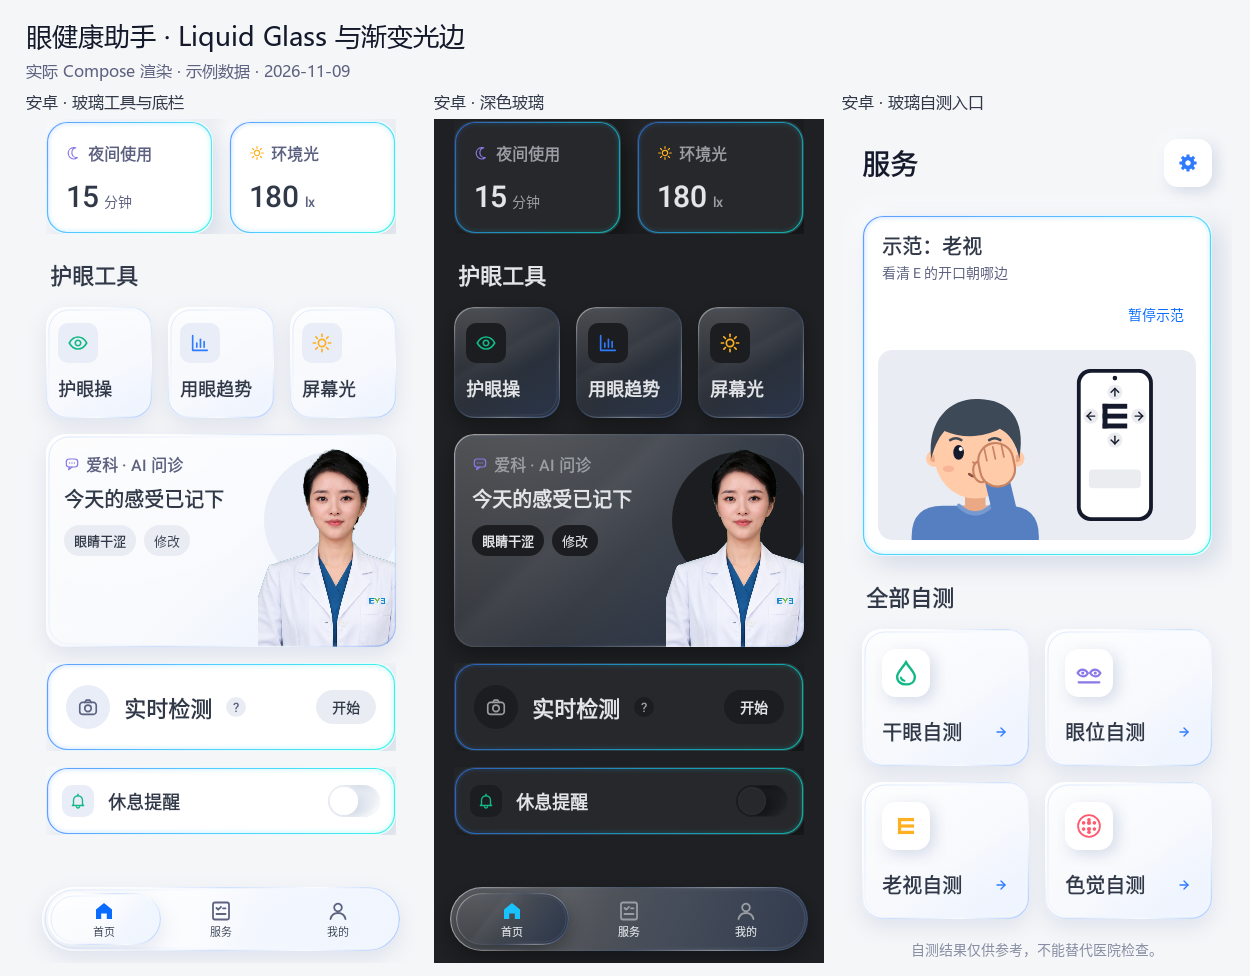
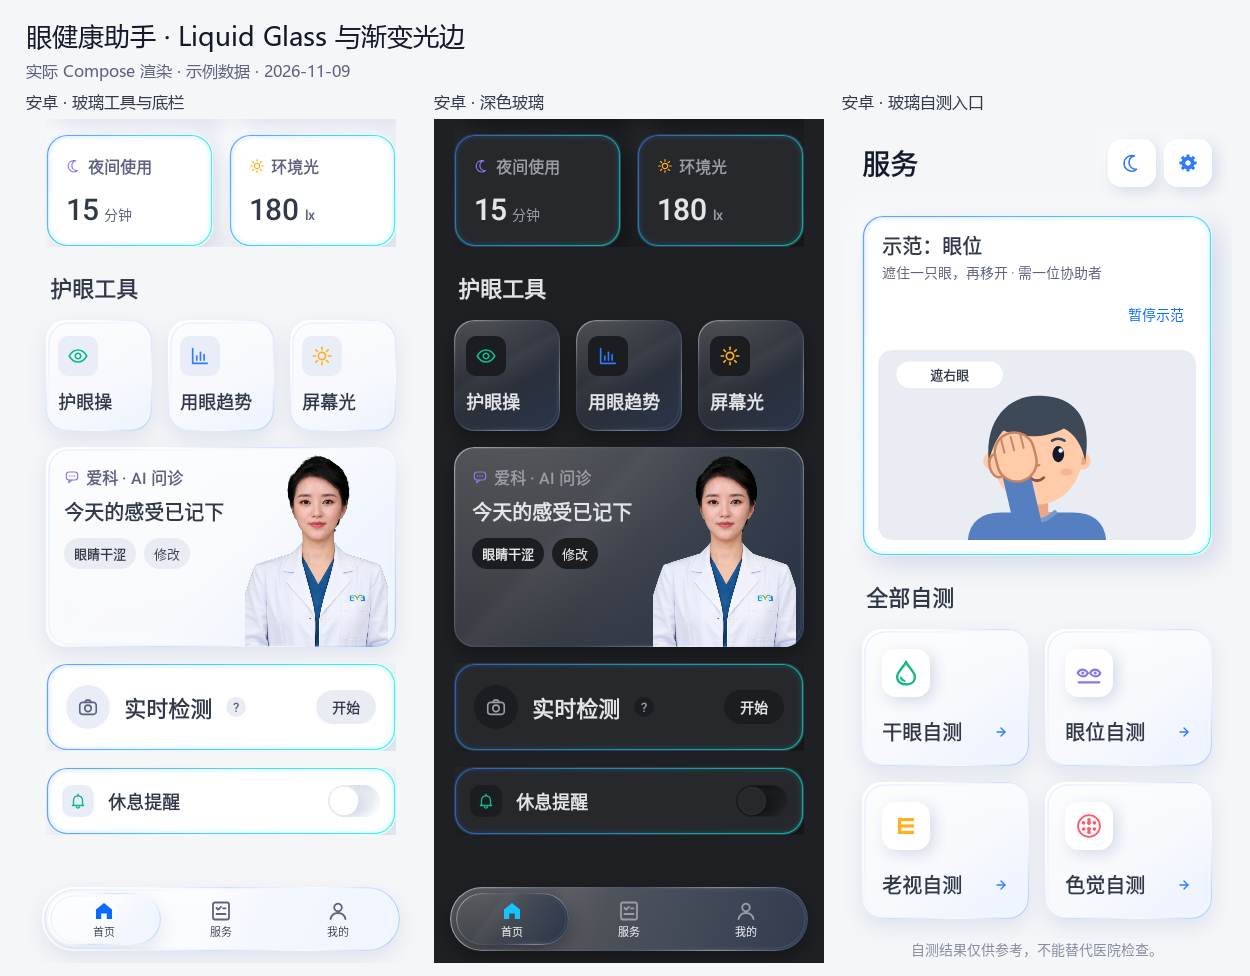
调整爱科半身形象并统一主页设置与日夜切换入口

diff --git a/feature/home/src/main/java/com/zkyjss/eyeproject/feature/home/HomeScreen.kt b/feature/home/src/main/java/com/zkyjss/eyeproject/feature/home/HomeScreen.kt
@@ -55,6 +55,7 @@ import com.zkyjss.eyeproject.core.designsystem.R
 import com.zkyjss.eyeproject.core.designsystem.theme.EyeColors
 import com.zkyjss.eyeproject.core.designsystem.theme.eyeSoftSurface
 import com.zkyjss.eyeproject.core.designsystem.theme.EyeMotion
+import com.zkyjss.eyeproject.core.designsystem.theme.EyeControlSizes
 import com.zkyjss.eyeproject.core.designsystem.theme.EyeShapes
 import com.zkyjss.eyeproject.core.designsystem.theme.EyeSpacing
 import com.zkyjss.eyeproject.core.designsystem.theme.LocalEyeColors
@@ -149,7 +150,7 @@ internal fun HomeContent(
             .padding(top = getTopStatusBarPadding()).screenHorizontalPaddingLarge(),
         verticalArrangement = Arrangement.spacedBy(EyeSpacing.cardGap),
     ) {
-        EyePageHeader("今日", null,
+        EyePageHeader("今日", navigation.onOpenSettings,
             subtitle = remember { LocalDate.now().format(DateTimeFormatter.ofPattern("M月d日 EEEE", Locale.CHINA)) })
         EyeCareHero(report, onOpenAccount = navigation.onOpenAccount)
         TodayData(state, actions, Modifier.bringIntoViewRequester(basic))
@@ -426,11 +427,11 @@ private fun EyechoCard(report: EyeCareReport?, onOpenChat: () -> Unit, onCheckIn
     val checked = report?.checkedInToday == true
     val symptoms = report?.todaySymptoms.orEmpty()
     var editing by rememberSaveable { mutableStateOf(false) }
-    Box(Modifier.fillMaxWidth().heightIn(min = 180.dp).pressableCard(EyeShapes.hero, onOpenChat)) {
-        Box(Modifier.align(Alignment.TopEnd).offset(x = 4.dp, y = 18.dp).size(136.dp).clip(CircleShape).background(colors.violetSoft))
+    Box(Modifier.fillMaxWidth().heightIn(min = EyeControlSizes.homePortraitHeight).pressableCard(EyeShapes.hero, onOpenChat)) {
         Image(painterResource(R.drawable.eyecho_half), contentDescription = "爱科", contentScale = ContentScale.Fit,
-            modifier = Modifier.align(Alignment.TopEnd).offset(x = 14.dp, y = 6.dp).size(width = 152.dp, height = 213.dp))
-        Column(Modifier.padding(18.dp).fillMaxWidth(0.62f), verticalArrangement = Arrangement.spacedBy(8.dp)) {
+            modifier = Modifier.align(Alignment.BottomEnd).padding(end = EyeControlSizes.homePortraitInset)
+                .size(width = EyeControlSizes.homePortraitWidth, height = EyeControlSizes.homePortraitHeight))
+        Column(Modifier.padding(18.dp).fillMaxWidth(0.56f), verticalArrangement = Arrangement.spacedBy(8.dp)) {
             EyeCategoryLabel(EYECHO_CARD_LABEL, EyeGlyph.CHAT, colors.violet)
             EyeText(if (checked) "今天的感受已记下" else "今天眼睛感觉怎么样？", style = typography.subtitle, color = colors.textPrimary)
             FlowRow(Modifier.padding(top = 4.dp), horizontalArrangement = Arrangement.spacedBy(8.dp), verticalArrangement = Arrangement.spacedBy(8.dp)) {

diff --git a/feature/home/src/test/java/com/zkyjss/eyeproject/feature/home/HomeVisualTest.kt b/feature/home/src/test/java/com/zkyjss/eyeproject/feature/home/HomeVisualTest.kt
@@ -101,9 +101,8 @@ class HomeVisualTest {
         compose.onNodeWithContentDescription("今日眼健康指数", substring = true).assertExists()
         compose.onNodeWithText("做 1 分钟护眼操").assertDoesNotExist()
         compose.onNodeWithText("护眼操").assertExists()
-        // 右上角只有账户头像，白天 / 夜晚切换移到「我的」
-        compose.onNodeWithContentDescription("切换到夜晚模式").assertDoesNotExist()
-        compose.onNodeWithContentDescription("系统设置").assertDoesNotExist()
+        // 系统设置移至主页顶栏，账户入口仍在仪表头像。
+        compose.onNodeWithContentDescription("系统设置").assertIsDisplayed()
         capture("01-首页-首屏", advance = false)
         compose.mainClock.autoAdvance = true
         compose.onNodeWithText("休息提醒").performScrollTo().performClick()
@@ -157,7 +156,11 @@ class HomeVisualTest {
         var report by mutableStateOf(initial.report!!.copy(score = 21, level = "LOW", label = "轻松"))
         compose.setContent {
             EyeProjectTheme(darkTheme = dark) {
-                HomeContent(initial.copy(report = report), HomeNavigation(onOpenAccount = { opened = true }), HomeActions())
+                androidx.compose.runtime.CompositionLocalProvider(
+                    com.zkyjss.eyeproject.core.ui.component.LocalEyeThemeToggle provides
+                        com.zkyjss.eyeproject.core.ui.component.EyeThemeToggle(dark) { dark = !dark }) {
+                    HomeContent(initial.copy(report = report), HomeNavigation(onOpenAccount = { opened = true }), HomeActions())
+                }
             }
         }
         compose.onNodeWithText("79").assertIsDisplayed()
@@ -393,6 +396,9 @@ class HomeVisualTest {
         )
         compose.mainClock.autoAdvance = false
         compose.setContent {
+            androidx.compose.runtime.CompositionLocalProvider(
+                com.zkyjss.eyeproject.core.ui.component.LocalEyeThemeToggle provides
+                    com.zkyjss.eyeproject.core.ui.component.EyeThemeToggle(dark) { dark = !dark }) {
             EyeProjectTheme(darkTheme = dark) {
                 val themeIsDark = LocalEyeColors.current.isDark
                 androidx.compose.runtime.SideEffect { renderedDark = themeIsDark }
@@ -404,6 +410,7 @@ class HomeVisualTest {
                     }
                     EyeNavigationDock(items, selected, { selected = it }, Modifier.fillMaxWidth().padding(horizontal = 16.dp, vertical = 12.dp))
                 }
+            }
             }
         }
         compose.mainClock.advanceTimeBy(1_500)

diff --git a/iosApp/Sources/EyeHome.swift b/iosApp/Sources/EyeHome.swift
@@ -32,7 +32,7 @@ struct HomePage: View {
         let report = store.report
         ScrollViewReader { proxy in
             PageScroll {
-                PageHeader(title: "今日", subtitle: today)
+                PageHeader(title: "今日", subtitle: today, openSettings: { navigate(.settings) })
                 HeroCard(report: report, openAccount: { navigate(.account) })
                 TodayData(report: report)
                 SectionTitle(text: "护眼工具")
@@ -160,13 +160,14 @@ private struct EyechoCard: View {
         let quick = Array(EyeCareBridge.shared.symptoms.prefix(2)) + [noDiscomfort]
         ZStack(alignment: .topLeading) {
             Button { EyeHaptics.tap(); openChat() } label: {
-                ZStack(alignment: .topTrailing) {
+                ZStack(alignment: .bottomTrailing) {
                     Color.clear
-                    Circle().fill(EyeStyle.violetSoft).frame(width: 136, height: 136).offset(x: 4, y: 18)
-                    Image("EyechoHalf").resizable().scaledToFit().frame(width: 152, height: 213).offset(x: 14, y: 6)
+                    Image("EyechoHalf").resizable().scaledToFit()
+                        .frame(width: EyeStyle.homePortraitWidth, height: EyeStyle.homePortraitHeight)
+                        .padding(.trailing, EyeStyle.homePortraitInset)
                         .accessibilityLabel("爱科")
                 }
-                .frame(maxWidth: .infinity, minHeight: 180, maxHeight: 180)
+                .frame(maxWidth: .infinity, minHeight: EyeStyle.homePortraitHeight, maxHeight: EyeStyle.homePortraitHeight)
                 .clipShape(RoundedRectangle(cornerRadius: EyeStyle.radiusHero, style: .continuous))
             }.buttonStyle(PressScale(scale: 0.98))
             VStack(alignment: .leading, spacing: 8) {
@@ -190,7 +191,7 @@ private struct EyechoCard: View {
                     }
                 }.padding(.top, 4)
             }
-            .padding(18).frame(width: 230, alignment: .leading)
+            .padding(18).frame(width: 210, alignment: .leading)
         }.eyeLiquidGlass(cornerRadius: EyeStyle.radiusHero)
     }
 }

diff --git a/core/ui/src/main/java/com/zkyjss/eyeproject/core/ui/component/EyePageHeader.kt b/core/ui/src/main/java/com/zkyjss/eyeproject/core/ui/component/EyePageHeader.kt
@@ -81,7 +81,7 @@ fun EyeSettingsGear(onClick: () -> Unit, modifier: Modifier = Modifier) {
 }
 
 /**
- * 账户头像（顶层页右上角唯一的按钮）：登录后品牌蓝实心圆 + 白色首字母，未登录为浅填充圆 + 人像线稿；
+ * 账户按钮：登录后品牌蓝实心圆 + 白色首字母，未登录为浅填充圆 + 人像线稿；
  * 点开完整的账户页（登录、注册、退出、注销）。与苹果端 AccountButton 一致。
  */
 @Composable
@@ -118,16 +118,16 @@ fun PersonGlyph(modifier: Modifier = Modifier) {
     }
 }
 
-/** 顶层页右上角：有账户入口时只放账户头像，否则放系统设置齿轮（白天 / 夜晚改在「我的 → 深色模式」）。 */
+/** 顶层页右上角：日夜切换与系统设置；账户由我的页提供。 */
 @Composable
-fun EyeHeaderActions(onOpenAccount: (() -> Unit)?, onOpenSettings: (() -> Unit)?) {
-    when {
-        onOpenAccount != null -> EyeAccountButton(onOpenAccount)
-        onOpenSettings != null -> EyeSettingsGear(onOpenSettings)
+fun EyeHeaderActions(onOpenSettings: (() -> Unit)?) {
+    Row(horizontalArrangement = Arrangement.spacedBy(EyeSpacing.xs), verticalAlignment = Alignment.CenterVertically) {
+        EyeThemeButton()
+        onOpenSettings?.let { EyeSettingsGear(it) }
     }
 }
 
-/** 顶层标题行：22 号标题在上，日期在下，右侧一个浮雕图标按钮。 */
+/** 顶层标题行：标题与日期在左，右侧日夜切换与系统设置。 */
 @Composable
 fun EyePageHeader(
     title: String,
@@ -143,6 +143,6 @@ fun EyePageHeader(
             EyeText(title, style = typography.headline, color = colors.textHeading)
             if (subtitle != null) EyeText(subtitle, Modifier.padding(top = EyeSpacing.xxs), style = typography.label, color = colors.textSecondary)
         }
-        EyeHeaderActions(onOpenAccount, onOpenSettings)
+        EyeHeaderActions(onOpenSettings)
     }
 }

diff --git a/iosApp/Sources/EyeMine.swift b/iosApp/Sources/EyeMine.swift
@@ -11,9 +11,6 @@ struct MinePage: View {
     @ObservedObject private var store = SubjectStore.shared
     @ObservedObject private var cloud = CloudModel.shared
     @State private var recordCount = 0
-    @Environment(\.colorScheme) private var scheme
-    /// 白天 / 夜晚（原在各顶层页右上角）：存在 UserDefaults「eye.themeMode」（system / light / dark），根视图据此设置 preferredColorScheme。
-    @AppStorage("eye.themeMode") private var themeMode = "system"
 
     private var me: SubjectProfileItem? { store.subjects.first { $0.relation == "SELF" } }
     private var signedIn: Bool { cloud.bool("signedIn") }
@@ -23,7 +20,7 @@ struct MinePage: View {
 
     var body: some View {
         PageScroll {
-            PageHeader(title: "我的")
+            PageHeader(title: "我的", openSettings: { navigate(.settings) })
             profileCard
             // 三格概览：一张卡里细竖线分隔，数字大、单位灰（与安卓 StatsRow 一致）
             HStack(spacing: 0) {
@@ -44,11 +41,7 @@ struct MinePage: View {
                 ListRow(title: "云端同步", glyph: .cloud, tone: .blue, value: cloudSummary, glowBorder: false) { navigate(.cloud) }
                 ListRow(title: "权限与通知", glyph: .shield, tone: .success, divider: false, glowBorder: false) { navigate(.permissions) }
             }
-            ListGroup(title: "通用") {
-                SwitchRow(title: "深色模式", isOn: Binding(get: { scheme == .dark }, set: { themeMode = $0 ? "dark" : "light" }),
-                          glyph: .moon, tone: .neutral, glowBorder: false)
-                ListRow(title: "系统设置", glyph: .gear, tone: .neutral, divider: false, glowBorder: false) { navigate(.settings) }
-            }
+
         }.onAppear(perform: recount)
     }
 

diff --git a/feature/mine/src/main/java/com/zkyjss/eyeproject/feature/mine/MineScreen.kt b/feature/mine/src/main/java/com/zkyjss/eyeproject/feature/mine/MineScreen.kt
@@ -85,7 +85,7 @@ internal fun MineContent(state: MineUiState, navigation: MineNavigation, modifie
             .padding(top = getTopStatusBarPadding()).screenHorizontalPaddingLarge(),
         verticalArrangement = Arrangement.spacedBy(com.zkyjss.eyeproject.core.designsystem.theme.EyeSpacing.cardGap),
     ) {
-        EyePageHeader("我的", null)
+        EyePageHeader("我的", navigation.onOpenSettings)
         ProfileCard(ready, navigation)
         StatsRow(ready, navigation)
         EyeListGroup(title = "健康档案") {
@@ -99,14 +99,6 @@ internal fun MineContent(state: MineUiState, navigation: MineNavigation, modifie
             EyeListRow("云端同步", navigation.onOpenCloudSync, glowBorder = false, glyph = EyeGlyph.CLOUD, tone = EyeTileTone.BLUE,
                 value = ready?.let { cloudSummary(it.cloudConfigured, it.email, it.healthDataSync) })
             EyeListRow("权限与通知", navigation.onOpenPermissions, glowBorder = false, glyph = EyeGlyph.SHIELD, tone = EyeTileTone.SUCCESS, divider = false)
-        }
-        EyeListGroup(title = "通用") {
-            // 白天 / 夜晚切换（原在各顶层页右上角）：由 app 按主题偏好提供，为空时不显示
-            val theme = LocalEyeThemeToggle.current
-            theme.onToggle?.let { toggle ->
-                EyeSwitchRow("深色模式", theme.isDark, { toggle() }, glowBorder = false, glyph = EyeGlyph.MOON, tone = EyeTileTone.NEUTRAL)
-            }
-            EyeListRow("系统设置", navigation.onOpenSettings, glowBorder = false, glyph = EyeGlyph.GEAR, tone = EyeTileTone.NEUTRAL, divider = false)
         }
         Spacer(Modifier.height(20.dp))
     }

diff --git a/iosApp/Sources/EyeComponents.swift b/iosApp/Sources/EyeComponents.swift
@@ -63,8 +63,7 @@ struct ThemeToggleButton: View {
         let dark = scheme == .dark
         Button { EyeHaptics.tap(); themeMode = dark ? "light" : "dark" } label: {
             Image(systemName: dark ? "sun.max.fill" : "moon.fill").font(.system(size: 20)).foregroundStyle(EyeStyle.primary)
-                .frame(width: 44, height: 44).background(EyeStyle.panel, in: Circle())
-                .overlay { Circle().stroke(EyeStyle.borderSubtle, lineWidth: 1) }
+                .frame(width: 48, height: 48).eyeGlass(cornerRadius: EyeStyle.radiusMedium)
         }.buttonStyle(.plain).accessibilityLabel(dark ? "切换到白天模式" : "切换到夜晚模式")
     }
 }
@@ -102,7 +101,10 @@ struct PageHeader: View {
                 Text(title).font(EyeStyle.headline).foregroundStyle(EyeStyle.heading).lineLimit(1).minimumScaleFactor(0.7)
                 if let subtitle { Text(subtitle).font(EyeStyle.label).foregroundStyle(EyeStyle.secondary) }
             }.frame(maxWidth: .infinity, alignment: .leading)
-            if let openAccount { AccountButton(action: openAccount) } else if let openSettings { SettingsGear(action: openSettings) }
+            HStack(spacing: EyeSpacing.xs) {
+                ThemeToggleButton()
+                if let openSettings { SettingsGear(action: openSettings) }
+            }
         }.padding(.top, 20).padding(.bottom, 12)
     }
 }

diff --git a/feature/services/src/test/java/com/zkyjss/eyeproject/feature/services/ServiceVisualTest.kt b/feature/services/src/test/java/com/zkyjss/eyeproject/feature/services/ServiceVisualTest.kt
@@ -72,7 +72,17 @@ class ServiceVisualTest {
 
     @Test fun servicesNavigation() {
         var destination = ""
-        compose.setContent { EyeProjectTheme { ServicesScreen({ destination = "dry" }, { destination = "near" }, { destination = "cover" }) } }
+        compose.setContent { EyeProjectTheme {
+            CompositionLocalProvider(LocalEyeThemeToggle provides EyeThemeToggle(false) { destination = "theme" }) {
+                ServicesScreen({ destination = "dry" }, { destination = "near" }, { destination = "cover" },
+                    onOpenSettings = { destination = "settings" }, onOpenAccount = { destination = "account" })
+            }
+        } }
+        compose.onNodeWithContentDescription("切换到夜晚模式").performClick()
+        assertEquals("theme", destination)
+        compose.onNodeWithContentDescription("账户（未登录）").assertDoesNotExist()
+        compose.onNodeWithContentDescription("系统设置").performClick()
+        assertEquals("settings", destination)
         capture("services-light")
         compose.onNodeWithText("干眼自测").performClick()
         assertEquals("dry", destination)

diff --git a/feature/home/src/main/java/com/zkyjss/eyeproject/feature/home/EyeChatPage.kt b/feature/home/src/main/java/com/zkyjss/eyeproject/feature/home/EyeChatPage.kt
@@ -197,8 +197,8 @@ private fun EyechoIntro() {
     val typography = LocalEyeTypography.current
     Row(Modifier.fillMaxWidth().padding(vertical = 12.dp), verticalAlignment = Alignment.Top,
         horizontalArrangement = Arrangement.spacedBy(16.dp)) {
-        Image(painterResource(R.drawable.eyecho_avatar), contentDescription = "爱科 Eyecho",
-            Modifier.size(EyeControlSizes.chatIntroAvatar).clip(CircleShape).background(colors.violetSoft))
+        Image(painterResource(R.drawable.eyecho_half), contentDescription = "爱科 Eyecho",
+            Modifier.size(width = EyeControlSizes.chatIntroPortraitWidth, height = EyeControlSizes.chatIntroPortraitHeight))
         Column(Modifier.weight(1f), verticalArrangement = Arrangement.spacedBy(8.dp)) {
             EyeText(EYECHO_HELLO, style = typography.title, color = colors.textPrimary)
             EyeText(EYECHO_INTRO, style = typography.chatBody, color = colors.textSecondary)

diff --git a/iosApp/Sources/AiChatView.swift b/iosApp/Sources/AiChatView.swift
@@ -150,9 +150,9 @@ struct EyechoAvatar: View {
 private struct EyechoIntro: View {
     var body: some View {
         HStack(alignment: .top, spacing: 16) {
-            Image("EyechoAvatar").resizable().scaledToFill()
-                .frame(width: EyeStyle.chatIntroAvatarSize, height: EyeStyle.chatIntroAvatarSize)
-                .background(EyeStyle.violetSoft).clipShape(Circle()).accessibilityLabel("爱科 Eyecho")
+            Image("EyechoHalf").resizable().scaledToFit()
+                .frame(width: EyeStyle.chatIntroPortraitWidth, height: EyeStyle.chatIntroPortraitHeight)
+                .accessibilityLabel("爱科 Eyecho")
             VStack(alignment: .leading, spacing: 8) {
                 Text("你好，我是爱科").font(EyeStyle.title).foregroundStyle(EyeStyle.text)
                 Text("爱尔眼科 AI 助手，陪你聊聊眼睛的不适、用眼习惯和自测结果。")

diff --git a/feature/mine/src/test/java/com/zkyjss/eyeproject/feature/mine/MineWalkthroughCapture.kt b/feature/mine/src/test/java/com/zkyjss/eyeproject/feature/mine/MineWalkthroughCapture.kt
@@ -66,10 +66,11 @@ class MineWalkthroughCapture {
         compose.onNodeWithContentDescription("账户（已登录）").assertDoesNotExist()
         compose.onNodeWithText("账户").performClick()
         assertEquals("account", opened)
-        // 白天 / 夜晚切换移到「通用 → 深色模式」
-        compose.onNodeWithText("深色模式").performScrollTo().performClick()
+        // 日夜切换和系统设置统一放在顶栏；通用分组不再占列表空间。
+        compose.onNodeWithText("通用").assertDoesNotExist()
+        compose.onNodeWithContentDescription("切换到夜晚模式").performClick()
         assertEquals("theme", opened)
-        compose.onNodeWithText("系统设置").performScrollTo().performClick()
+        compose.onNodeWithContentDescription("系统设置").performClick()
         assertEquals("settings", opened)
     }
 

diff --git a/iosApp/Sources/EyeStyle.swift b/iosApp/Sources/EyeStyle.swift
@@ -95,7 +95,11 @@ enum EyeStyle {
     static let shadowLight = dyn(0xFFFFFF, 0xFFFFFF, lightAlpha: 0.95, darkAlpha: 0.045)
     static let glowRadius: CGFloat = 7
     static let chatAvatarSize: CGFloat = 48
-    static let chatIntroAvatarSize: CGFloat = 104
+    static let chatIntroPortraitWidth: CGFloat = 132
+    static let chatIntroPortraitHeight: CGFloat = 184
+    static let homePortraitWidth: CGFloat = 144
+    static let homePortraitHeight: CGFloat = 200
+    static let homePortraitInset: CGFloat = 8
     static let ringGlowStrokeScale: CGFloat = 1.7
     /// 宽光晕描边超出的半宽，加三倍模糊半径，给滤镜完整的绘制空间。
     static func ringGlowOutset(lineWidth: CGFloat) -> CGFloat {
